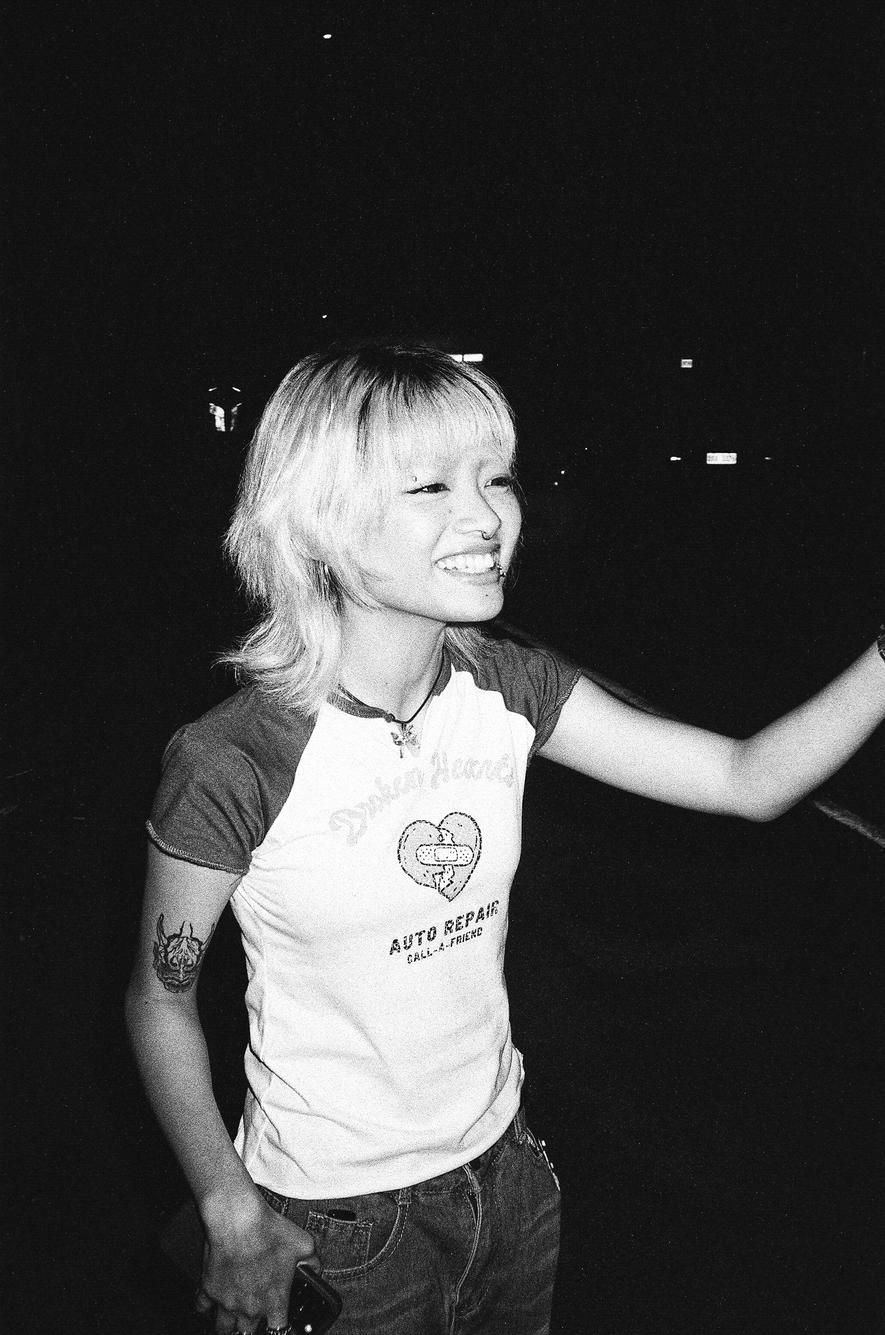
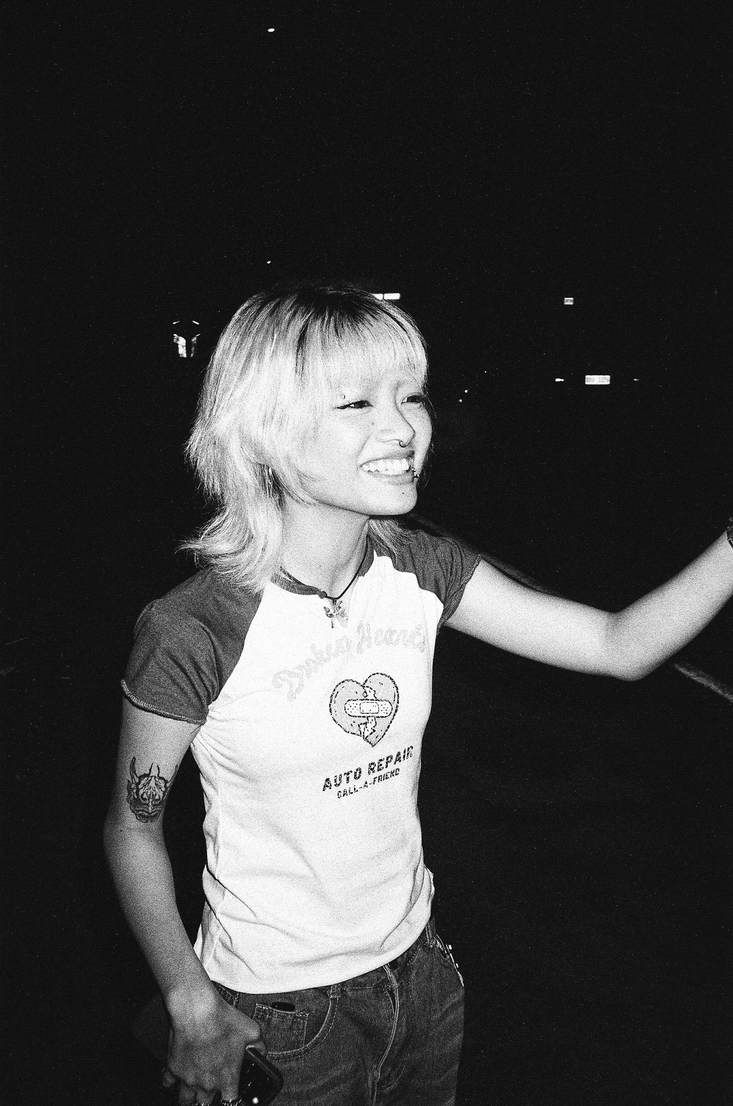
compression

diff --git a/compress_photos.py b/compress_photos.py
@@ -1,0 +1,54 @@
+from PIL import Image
+import os
+
+# Configuration
+MAX_FILESIZE_MB = 2
+MAX_DIMENSION = 2560  # max width or height in pixels
+JPEG_QUALITY = 85
+SUPPORTED_FORMATS = ('.jpg', '.jpeg', '.png')
+INPUT_DIR = '/Users/markvalencia/Shelf/damnpictures/uncompressed_photos'
+OUTPUT_DIR = '/Users/markvalencia/Shelf/damnpictures/albums'
+
+def compress_image(file_path, output_path):
+    try:
+        with Image.open(file_path) as img:
+            img_format = img.format
+            img = img.convert('RGB')  # Convert for JPEG saving
+
+            # Resize if too large
+            width, height = img.size
+            if max(width, height) > MAX_DIMENSION:
+                if width > height:
+                    new_width = MAX_DIMENSION
+                    new_height = int((MAX_DIMENSION / width) * height)
+                else:
+                    new_height = MAX_DIMENSION
+                    new_width = int((MAX_DIMENSION / height) * width)
+                img = img.resize((new_width, new_height), Image.LANCZOS)
+
+            # Save with compression
+            os.makedirs(os.path.dirname(output_path), exist_ok=True)
+            img.save(output_path, format='JPEG', quality=JPEG_QUALITY, optimize=True)
+    except Exception as e:
+        print(f"Failed to process {file_path}: {e}")
+
+def is_file_acceptable(file_path):
+    return os.path.getsize(file_path) <= MAX_FILESIZE_MB * 1024 * 1024
+
+def process_directory(input_dir, output_dir):
+    for root, _, files in os.walk(input_dir):
+        for file in files:
+            if file.lower().endswith(SUPPORTED_FORMATS):
+                input_path = os.path.join(root, file)
+                rel_path = os.path.relpath(input_path, input_dir)
+                output_path = os.path.join(output_dir, rel_path)
+
+                if not is_file_acceptable(input_path):
+                    compress_image(input_path, output_path)
+                else:
+                    # Copy without modification
+                    os.makedirs(os.path.dirname(output_path), exist_ok=True)
+                    with open(input_path, 'rb') as src, open(output_path, 'wb') as dst:
+                        dst.write(src.read())
+
+process_directory(INPUT_DIR, OUTPUT_DIR)
